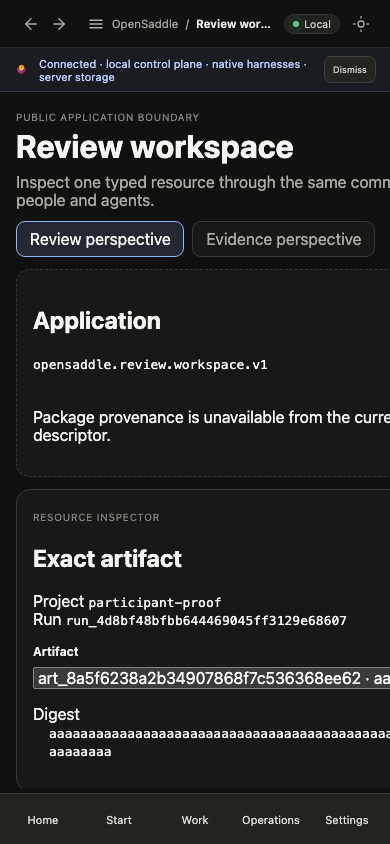
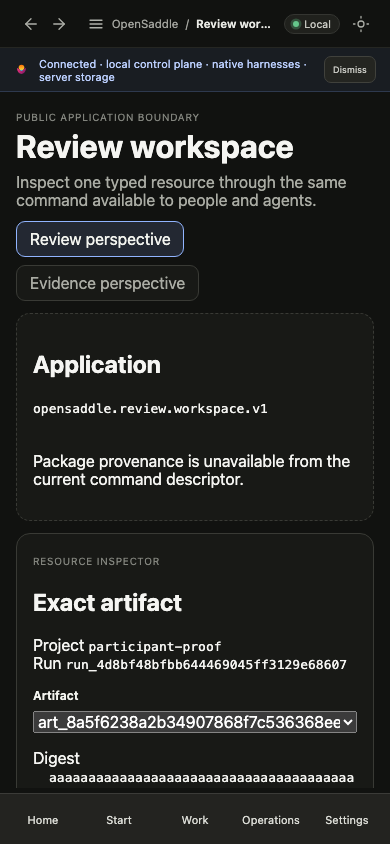
fix mobile review workspace overflow

diff --git a/src/features/command-center/command-center.css b/src/features/command-center/command-center.css
@@ -1,15 +1,16 @@
-.cc-page { max-width: 1180px; margin: 0 auto; display: grid; gap: var(--os-space-5); }
+.cc-page { width: 100%; min-width: 0; max-width: 1180px; margin: 0 auto; display: grid; gap: var(--os-space-5); }
 .cc-header, .cc-section-heading, .cc-row-top { display: flex; align-items: flex-start; justify-content: space-between; gap: var(--os-space-4); }
 .cc-header h1, .cc-section-heading h2 { margin: .2rem 0 0; }
 .cc-header p { margin: var(--os-space-2) 0 0; color: var(--os-color-text-muted); }
 .cc-freshness { display: grid; justify-items: end; gap: var(--os-space-1); color: var(--os-color-text-subtle); font-size: var(--os-font-size-xs); }
-.cc-priority, .cc-panel, .cc-unavailable { border: 1px solid var(--os-color-border); border-radius: var(--os-radius-lg); background: var(--os-color-surface); }
+.cc-priority, .cc-panel, .cc-unavailable { min-width: 0; border: 1px solid var(--os-color-border); border-radius: var(--os-radius-lg); background: var(--os-color-surface); }
 .cc-priority { padding: var(--os-space-6); background: linear-gradient(135deg, var(--os-color-accent-soft), transparent 48%), var(--os-color-surface); }
 .cc-panel, .cc-unavailable { padding: var(--os-space-5); }
 .cc-panel dl { min-width: 0; }
 .cc-panel dd { min-width: 0; margin-inline-start: var(--os-space-4); }
 .cc-panel code { overflow-wrap: anywhere; word-break: break-word; }
-.cc-panel select { max-width: 100%; }
+.cc-panel .os-field { min-width: 0; }
+.cc-panel select { width: 100%; min-width: 0; max-width: 100%; }
 .cc-objective { display: inline-block; max-width: 54rem; margin-top: var(--os-space-5); color: var(--os-color-text); font-size: clamp(1.35rem, 3vw, 2rem); font-weight: var(--os-weight-semibold); line-height: var(--os-line-tight); text-decoration: none; }
 .cc-objective:hover { color: var(--os-color-accent-hover); }
 .cc-identity { color: var(--os-color-text-muted); }
@@ -38,6 +39,7 @@
 .cc-project small { display: block; margin-top: var(--os-space-3); color: var(--os-color-text-subtle); }
 .cc-section-empty { margin: var(--os-space-4) 0 0; color: var(--os-color-text-muted); }
 .cc-unavailable { display: grid; grid-template-columns: minmax(12rem, .35fr) 1fr; gap: var(--os-space-5); border-style: dashed; }
+.cc-unavailable > * { min-width: 0; overflow-wrap: anywhere; }
 .cc-unavailable ul { margin: 0; padding: 0; display: grid; gap: var(--os-space-2); list-style: none; }
 .cc-unavailable li { display: grid; grid-template-columns: minmax(8rem, .3fr) 1fr; gap: var(--os-space-3); color: var(--os-color-text-muted); }
 .cc-text-link { align-self: center; color: var(--os-color-accent); }

diff --git a/test/connectedLocalBoundary.test.ts b/test/connectedLocalBoundary.test.ts
@@ -11,6 +11,7 @@ const start = source('src/features/projects/ConnectedLocalStartPage.tsx')
 const project = source('src/features/projects/ConnectedLocalProjectPage.tsx')
 const dialog = source('src/features/onboarding/ConnectedLocalProjectDialog.tsx')
 const appCss = source('src/styles/app.css')
+const commandCenterCss = source('src/features/command-center/command-center.css')
 
 const required: Array<[string, string, string]> = [
   ['local routes are selected by authoritative connection mode', app, "controlPlane.connected && services.controlPlane.mode === 'local'"],
@@ -82,4 +83,11 @@ test('connected-local mobile layout keeps compact primary navigation without cov
   assert.match(appCss, /grid-template-columns:repeat\(5, minmax\(0, 1fr\)\)/)
   assert.doesNotMatch(appCss, /\.app > \.sidebar \{ display:none/)
   for (const label of ['Home', 'Start', 'Work', 'Operations', 'Settings']) assert.match(app, new RegExp(`>${label}<`))
+})
+
+test('review surfaces constrain cards, fields, and long evidence to the viewport', () => {
+  assert.match(commandCenterCss, /\.cc-page \{ width: 100%; min-width: 0;/)
+  assert.match(commandCenterCss, /\.cc-priority, \.cc-panel, \.cc-unavailable \{ min-width: 0;/)
+  assert.match(commandCenterCss, /\.cc-panel select \{ width: 100%; min-width: 0; max-width: 100%; \}/)
+  assert.match(commandCenterCss, /\.cc-unavailable > \* \{ min-width: 0; overflow-wrap: anywhere; \}/)
 })

diff --git a/docs/agents/planner-interface-status.md b/docs/agents/planner-interface-status.md
@@ -16,6 +16,8 @@ Live fixture proof used Core 8903 v4 and private 0600 token paths without printi
 
 Final local evidence: focused operations tests passed; full repository tests 377/377 passed (313 workspace plus 64 feature/service); typecheck passed; production build passed with the existing large-chunk advisory; `git diff --check` passed. Isolated Chrome headless rendered the authenticated Core 8903 operations, participant inbox, and exact result journeys without using the user's browser profile. At 390 x 844 the compact Home, Start, Work, Operations, and Settings navigation remains visible, occupies the bottom 51 pixels, and no longer clips content; automation clicked the four requested destinations and then clicked the exact inbox result. The result remained under `/opensaddle-interface/review` with the exact Run and invocation query. Fresh desktop and mobile screenshots are saved under `docs/agents/evidence/`. The earlier reconnect failure was an automation selector error: the all-settings page retains inactive panel controls in the DOM, and the script populated the General panel's inactive password field. Selecting the visible Connection panel before typing connected successfully; no product connection fault was found. This does not claim a physical touch device or production deployment.
 
+The first result screenshot still exposed horizontal overflow from intrinsic card, select, and long-reference widths. The Review workspace now constrains the page, cards, unavailable-state children, and fields to their grid columns while wrapping long evidence. Fresh Review and Evidence perspective screenshots show readable complete copy, a bounded artifact selector, exact resource lineage, and durable invocation evidence. Chrome measured both `document.documentElement.scrollWidth` and `document.body.scrollWidth` at 390 pixels for a 390-pixel viewport.
+
 ## Current status — durable reviewer participant
 
 Independent mounted review then caught three state/identity defects. The exact new assertions failed 4/4 before their owner changed: React StrictMode effect replay left the participant surface permanently non-live; a route change during a pending lifecycle mutation left the new reviewer controls permanently busy; completed inbox links omitted the invocation identity; and the resulting review destination restored a different invocation from the same source Run. The same assertions now pass. Effect setup restores the live flag, route/client changes synchronously release stale busy state while generation fencing still ignores the old completion, and completed links carry `invocation`. The registered review surface loads that durable invocation directly and accepts it only through the existing exact Project, Run, artifact digest, command version, and descriptor checks; it cannot fall back to an unrelated Run invocation when an explicit invocation was requested.
